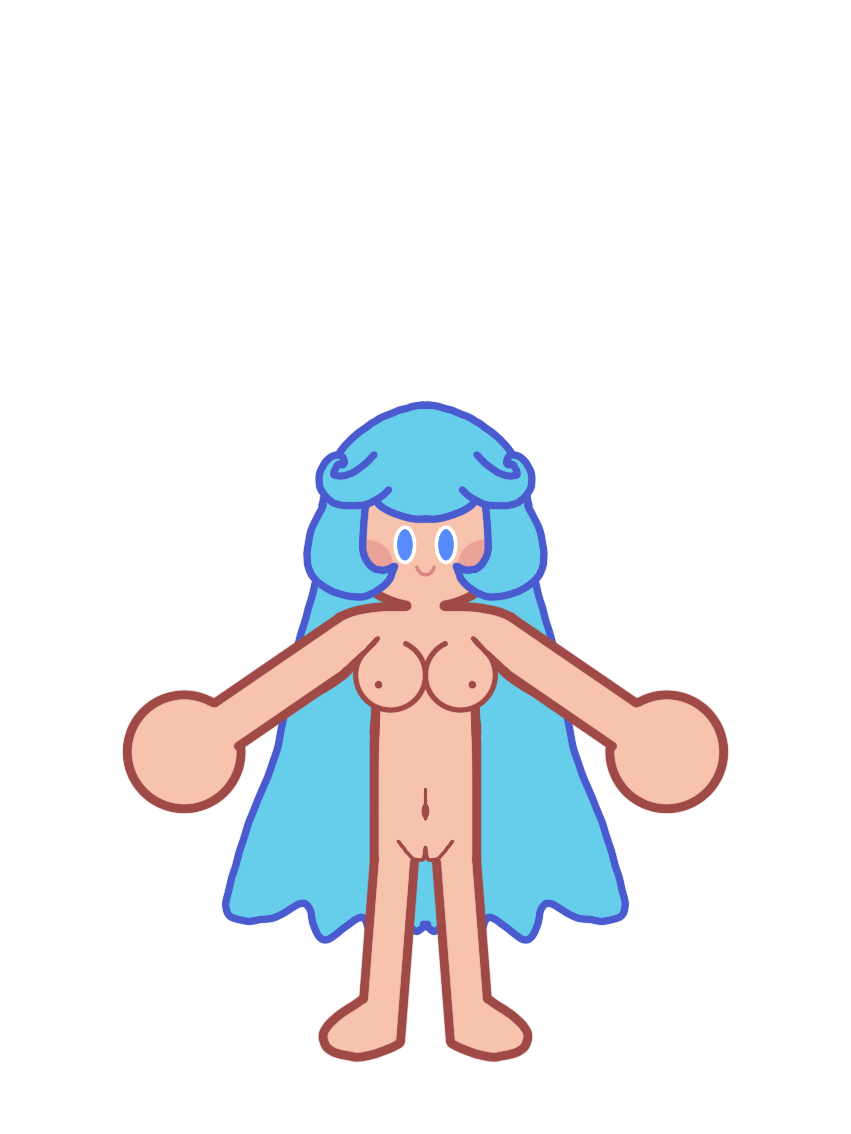
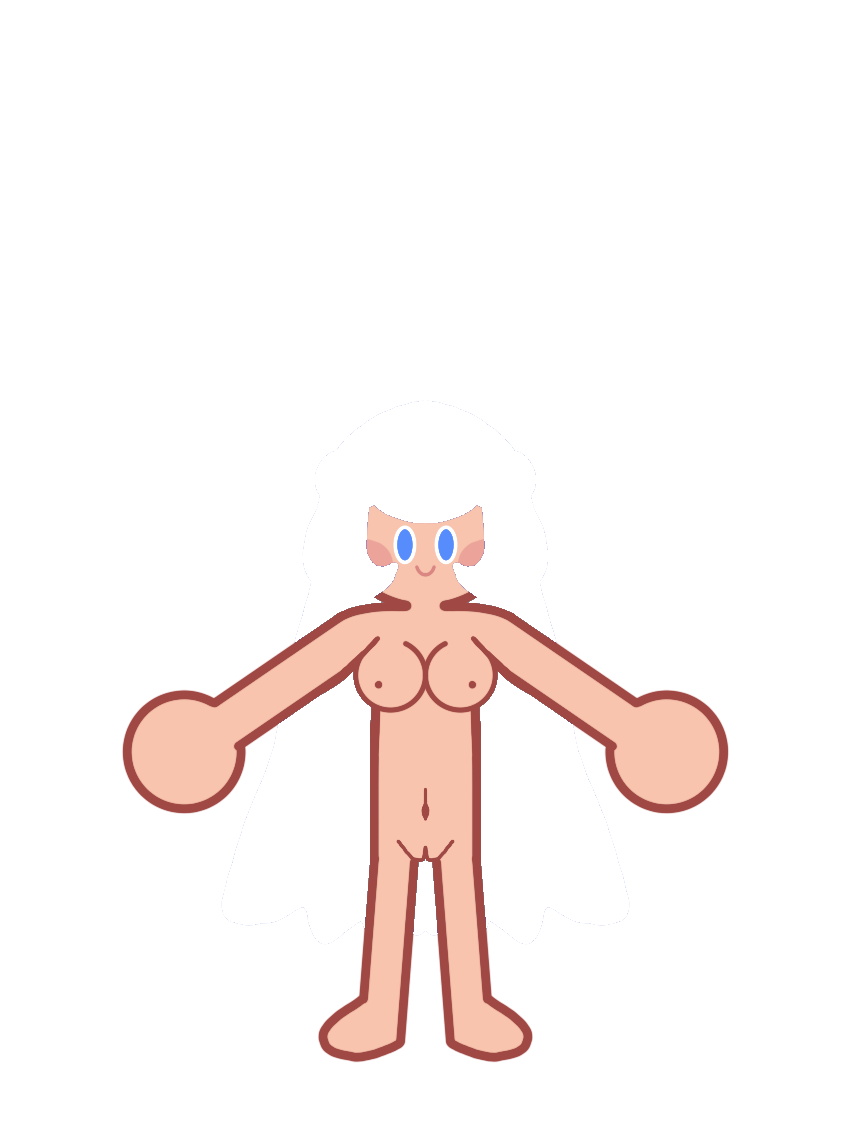
Separate the cape and hair out of base.png
The cape was painted into the body sprite. The rig gives every pixel to the bone
nearest it, so a cape draped across both legs was shared out between them and
tore apart the moment the pet was thrown — the thing that looked bad. Raising
cutOverlap to 12 hid the hairline seams but could not fix a part torn between
two bones.

The cape and the hair are now their own files, each one layer on one bone, and
they move as single pieces. cutOverlap goes back to the 6 the desktop pets use;
the reason for 12 is gone.

Splitting them out was done by colour rather than by hand: this art is flat
shaded, so the blue family is the cape and hair and the skin family is the body,
and connected-component labelling separates the hair from the cape. The part of
each hidden behind the body was rebuilt by filling the occluded pixels with the
part's flat colour — reconstructed column by column rather than row by row, or
every row reaches down to the lowest point of the hem and the middle comes back
as a slab with a straight edge while the scallops curve around it.

Checked by stacking the body and the parts back up and comparing against the
original sprite: 0 of 195,066 pixels differ, nothing missing, nothing extra. The
untouched sprite is committed as images/base_original.png.

tools/ has the tracing guide and a preview page that loads images/, reports
which parts it found and shows the pet rigged and moving, so a redrawn part can
[…]

diff --git a/tools/parts_preview.html b/tools/parts_preview.html
@@ -1,0 +1,200 @@
+<!DOCTYPE html>
+<html lang="en">
+<head>
+<meta charset="utf-8" />
+<!-- This page lives in tools/ but everything it loads — the rig scripts and
+     images/ — sits one level up, and asset_path_fix.js rewrites bare image
+     names to "images/<name>" relative to the PAGE. Without this the whole page
+     would go looking for tools/images/. -->
+<base href="../" />
+<title>Part preview</title>
+<style>
+  * { box-sizing: border-box; }
+  body { margin: 0; font: 14px/1.5 system-ui, sans-serif; color: #1b2430; background: #eef1f5;
+         display: flex; min-height: 100vh; }
+  #stage { flex: 1; display: flex; align-items: center; justify-content: center; position: relative; }
+  #stage canvas { background:
+      repeating-conic-gradient(#e3e7ee 0% 25%, #f7f9fb 0% 50%) 50% / 24px 24px; border-radius: 8px; }
+  #side { width: 330px; padding: 18px; background: #fff; border-left: 1px solid #d8dee7;
+          overflow: auto; }
+  h1 { font-size: 17px; margin: 0 0 2px; }
+  h2 { font-size: 12px; text-transform: uppercase; letter-spacing: .08em; color: #6b7684;
+       margin: 22px 0 8px; }
+  .sub { color: #6b7684; font-size: 12.5px; margin-bottom: 4px; }
+  button { font: inherit; padding: 7px 12px; margin: 0 6px 6px 0; border: 1px solid #c8d0da;
+           background: #fff; border-radius: 7px; cursor: pointer; }
+  button:hover { background: #f1f4f8; }
+  button.on { background: #1b2430; color: #fff; border-color: #1b2430; }
+  label { display: flex; align-items: center; gap: 8px; padding: 5px 0; cursor: pointer; }
+  code { font: 12.5px ui-monospace, monospace; background: #f1f4f8; padding: 1px 5px;
+         border-radius: 4px; }
+  .missing { color: #a8b0bb; }
+  .tag { font-size: 11px; color: #6b7684; }
+  .warn { background: #fff6e5; border: 1px solid #f0d8a8; padding: 9px 11px; border-radius: 7px;
+          font-size: 12.5px; color: #6b4c12; }
+</style>
+</head>
+<body>
+<div id="stage"><canvas id="c" width="760" height="900"></canvas></div>
+
+<div id="side">
+  <h1>Part preview</h1>
+  <div class="sub">Redraw a part, save it into <code>images/</code>, then Reload art.
+    Nothing here changes your files.</div>
+
+  <h2>Motion</h2>
+  <div id="modes"></div>
+
+  <h2>Parts found</h2>
+  <div id="parts"></div>
+
+  <h2>Show</h2>
+  <label><input type="checkbox" id="bones"> Skeleton and joints</label>
+  <label><input type="checkbox" id="slow"> Quarter speed</label>
+
+  <h2>Scale</h2>
+  <input type="range" id="scale" min="20" max="90" value="52" style="width:100%">
+
+  <h2></h2>
+  <button id="reload">↻ Reload art</button>
+  <div id="note"></div>
+</div>
+
+<script src="asset_path_fix.js"></script>
+<script src="pet_back_layer.js"></script>
+<script src="pet_rig_config.js"></script>
+<script src="pet_rig.js"></script>
+<script>
+(() => {
+  const CFG = window.PET_RIG;
+  const cv = document.getElementById('c'), ctx = cv.getContext('2d');
+
+  // The declared parts, and whether their art actually loaded. Kept as the one
+  // source of truth so switching a part off and rebuilding uses the same list.
+  const declared = []
+    .concat((CFG.backParts || []).map(d => ({ def: d, front: false })))
+    .concat((CFG.frontParts || []).map(d => ({ def: d, front: true })));
+  declared.forEach(p => { p.on = true; });
+
+  const PET = Number(new URLSearchParams(location.search).get('pet') || 0);
+  let rig = null, base = null, mode = 'idle', t0 = performance.now(), showBones = false, slow = false;
+  let scale = 0.52;
+
+  function loadImage(src) {
+    return new Promise(r => { const i = new Image(); i.onload = () => r(i); i.onerror = () => r(null); i.src = src; });
+  }
+
+  // Rebuilding is a whole-sprite read, so it happens on a toggle — never per
+  // frame. Switching a part off means handing the rig a list without it.
+  function build() {
+    CFG.backParts  = declared.filter(p => !p.front && p.on).map(p => p.def);
+    CFG.frontParts = declared.filter(p =>  p.front && p.on).map(p => p.def);
+    if (window.PetRig.resetGeometry) window.PetRig.resetGeometry();
+    rig = window.PetRig.create({ petIndex: PET });
+    if (base) rig.setBase(base);
+    rig.setDebug(showBones);
+  }
+
+  async function boot() {
+    // Character 2 has its own body art and its own "_2" parts; fall back to
+    // character 1's body the same way the app does.
+    base = PET === 1 ? await loadImage('base_2.png') : null;
+    if (!base) base = await loadImage('base.png');
+    document.getElementById('note').innerHTML = base ? '' :
+      '<div class="warn">No <code>images/base.png</code> — nothing to rig. ' +
+      'Add the body sprite first.</div>';
+
+    // Start the part loads through the SAME resolver the rig uses, so the "_2"
+    // names are the ones requested for character 2. Asking for the bare name
+    // here would preload the wrong files and then report every part missing.
+    if (window.PetParts) declared.forEach(p => window.PetParts.resolve(p.def.img, null, PET));
+    await new Promise(r => setTimeout(r, 500));
+
+    renderPartList();
+    build();
+    requestAnimationFrame(frame);
+  }
+
+  function renderPartList() {
+    const host = document.getElementById('parts');
+    host.innerHTML = '';
+    declared.forEach((p, i) => {
+      const found = window.PetParts && window.PetParts.has(p.def.img, null, PET);
+      const row = document.createElement('label');
+      row.innerHTML =
+        `<input type="checkbox" ${p.on ? 'checked' : ''} ${found ? '' : 'disabled'}>` +
+        `<span class="${found ? '' : 'missing'}"><code>${p.def.img}</code>` +
+        `<div class="tag">${found ? '' : 'not found · '}${p.front ? 'front' : 'behind'} · ` +
+        `${p.def.bone}${p.def.segments ? ' · chain x' + p.def.segments : ''}</div></span>`;
+      row.querySelector('input').addEventListener('change', e => { p.on = e.target.checked; build(); });
+      host.appendChild(row);
+    });
+  }
+
+  const MODES = [
+    ['idle',  'Rest'],
+    ['sway',  'Walk about'],
+    ['throw', 'Throw'],
+    ['pull',  'Pull a hand'],
+  ];
+  const modeHost = document.getElementById('modes');
+  MODES.forEach(([id, label]) => {
+    const b = document.createElement('button');
+    b.textContent = label; b.dataset.mode = id;
+    b.className = id === mode ? 'on' : '';
+    b.onclick = () => {
+      mode = id; t0 = performance.now();
+      [...modeHost.children].forEach(c => c.className = c.dataset.mode === id ? 'on' : '');
+    };
+    modeHost.appendChild(b);
+  });
+
+  document.getElementById('bones').onchange = e => { showBones = e.target.checked; if (rig) rig.setDebug(showBones); };
+  document.getElementById('slow').onchange  = e => { slow = e.target.checked; };
+  document.getElementById('scale').oninput  = e => { scale = e.target.value / 100; };
+  document.getElementById('reload').onclick = () => location.reload();
+
+  let last = 0;
+  function frame(now) {
+    requestAnimationFrame(frame);
+    let dt = last ? Math.min((now - last) / 1000, 0.05) : 1 / 60;
+    last = now;
+    if (slow) dt *= 0.25;
+    ctx.clearRect(0, 0, cv.width, cv.height);
+    if (!rig || !rig.ready) return;
+
+    const t = (now - t0) / 1000 * (slow ? 0.25 : 1);
+    const h = CFG.src.h * scale;
+    const cx = cv.width / 2 - CFG.src.w * scale / 2;
+    const floor = 40 + h;
+
+    const S = {
+      petX: cx, petY: 40, originX: 0, originY: 0, scale,
+      floorY: floor, poseK: rig.pose.idle, pin: null, airborne: false,
+    };
+
+    if (mode === 'sway') {
+      S.petX = cx + Math.sin(t * 1.6) * 130;
+    } else if (mode === 'throw') {
+      const p = (t % 2.4) / 2.4;
+      S.petX = cx + Math.sin(t * 2.2) * 150;
+      S.petY = 40 - Math.sin(p * Math.PI) * h * 0.55;
+      S.airborne = p < 0.92;
+      S.poseK = S.airborne ? rig.pose.airborne : rig.pose.idle;
+      if (!S.airborne) S.floorY = floor;
+    } else if (mode === 'pull') {
+      S.poseK = rig.pose.heldLimb;
+      S.pin = { joint: 'handL',
+                x: cx + (CFG.src.w * 0.5 + Math.cos(t * 1.1) * CFG.src.w * 0.42) * scale,
+                y: 40 + (CFG.src.h * 0.55 + Math.sin(t * 1.1) * CFG.src.h * 0.3) * scale };
+    }
+
+    rig.step(dt, S);
+    rig.draw(ctx, S);
+  }
+
+  boot();
+})();
+</script>
+</body>
+</html>

diff --git a/pet_rig_config.js b/pet_rig_config.js
@@ -216,15 +216,17 @@ window.PET_RIG = {
   //                 much cheaper. 'maxLag' caps the trail in degrees.
   //                 'flap: true' adds a slow flutter while the pet is airborne.
   //
-  // ⚠ IF A BACK PART IS DRAWN INTO base.png. The character that ships with this
-  // app has its hair and cape painted into the base sprite rather than in their
-  // own files. The rig gives every pixel to the bone nearest it, so those pixels
-  // are shared out between the torso and the legs — which is invisible standing
-  // still, and shows as the cape splitting along the legs when the pet is thrown
-  // hard. Moving that artwork into its own PNG here is the fix, and is the whole
-  // reason this list exists: cut the cape out of base.png, save it as
-  // images/hair_back.png (or add your own entry for it), and it becomes a proper
-  // layer that swings on its own instead of being torn between two bones.
+  // ⚠ NEVER PAINT A BACK PART INTO base.png. The rig gives every pixel to the
+  // bone nearest it, so anything spread across several bones at once gets shared
+  // out between them — invisible standing still, and torn apart the moment the
+  // pet is thrown. This character's cape used to be painted into the base sprite
+  // and split along her legs for exactly that reason. It now lives in
+  // images/cape.png and swings as one piece; images/base_original.png is the
+  // untouched sprite the parts came out of, kept for reference.
+  //
+  // The test for whether something needs its own file: if the pet moved an arm,
+  // would this move WITH the arm, or stay put? A sleeve moves with the arm and
+  // belongs in base.png. A cape does not, and needs its own file.
   backParts: [
 
     { id: 'tail', img: 'tail.png', bone: 'pelvis', anchor: { x: 425, y: 862 },
@@ -232,6 +234,9 @@ window.PET_RIG = {
 
     { id: 'ponytail', img: 'ponytail.png', bone: 'head', anchor: { x: 425, y: 430 },
       z: 50, segments: 3, stiffness: 0.22 },
+
+    { id: 'cape', img: 'cape.png', bone: 'torso', anchor: { x: 425, y: 664 },
+      z: 42, lag: 0.18, maxLag: 14 },
 
     { id: 'hairBack', img: 'hair_back.png', bone: 'head', anchor: { x: 425, y: 420 },
       z: 55, lag: 0.14, maxLag: 10 },
@@ -286,14 +291,13 @@ window.PET_RIG = {
     // pixels. This is what stops a hairline gap opening along a joint when a
     // limb turns: the two sides overlap instead of meeting exactly.
     //
-    // Higher here than on the desktop pets on purpose: this character's cape and
-    // hair are painted into base.png rather than living in their own files, so
-    // they get shared out between the torso and the legs and have further to
-    // come apart. Measured on this artwork with every limb swung 25°, the gap
-    // pixels along the joints go 2951 at 0, 2041 at 2, 902 at 6, 313 at 12, and
-    // none of it shows at rest. Moving the cape into its own PNG (see backParts
-    // above) fixes the cause rather than the symptom.
-    cutOverlap: 12,
+    // Was 12 while the cape was still painted into base.png — it was being torn
+    // between the torso and the legs, and the extra overlap was papering over
+    // the gaps. The cape is its own layer now, so this is back to the same 6 the
+    // desktop pets use. Measured on this artwork with every limb swung 25°, the
+    // gap pixels along the joints go 2951 at 0, 2041 at 2, 902 at 6, 313 at 12,
+    // and none of it shows at rest.
+    cutOverlap: 6,
 
     // How much of a chain part's length the first segment covers, versus the
     // ones below it. 1 is even. Below 1 makes the root segment shorter, so the

diff --git a/pet_rig.js b/pet_rig.js
@@ -1198,7 +1198,15 @@ window.PetRig = (function () {
   //  window.PetRig is itself the first pet, so an app with one pet never has to
   //  know create() exists — every call it already makes still lands.
   const first = create({ petIndex: 0 });
-  const api = { create, geometry, config: CFG };
+  const api = {
+    create, geometry, config: CFG,
+    // Throw away the derived skeleton so the next create() reads PET_RIG again.
+    // The geometry is cached because it is identical for every pet and costs a
+    // pass over the config to build; that caching is also why editing
+    // PET_RIG.backParts at runtime otherwise appears to do nothing. The parts
+    // preview in tools/ uses this to switch a part off and re-cut.
+    resetGeometry() { for (const k in geomCache) delete geomCache[k]; },
+  };
   for (const k of Object.keys(first)) {
     const d = Object.getOwnPropertyDescriptor(first, k);
     if (d && (d.get || d.set)) Object.defineProperty(api, k, d);

diff --git a/tools/README.md b/tools/README.md
@@ -1,0 +1,69 @@
+# Drawing the pet's back parts
+
+The pet's body is cut into limbs automatically along the skeleton in
+`pet_rig_config.js`, so **you never separate an arm, a leg, the head or the
+torso** — those live in `images/base.png` and the rig handles them.
+
+What does need its own file is anything that sits **behind** the body and spans
+more than one bone: a cape, long hair, wings, a tail. The rig gives every pixel
+to the bone nearest it, so a cape draped across both legs gets shared out
+between them and tears apart the moment the pet is thrown.
+
+> **The test:** if the pet moved its arm, would this move *with* the arm?
+> A sleeve would — it belongs in `base.png`. A cape would not — it needs its own file.
+
+## The files
+
+Every part is optional. A missing PNG simply draws nothing, so you can add them
+one at a time. Draw each on its own transparent canvas the **same size as
+`base.png`** (851 × 1134), positioned exactly where it sits on the body — the
+same way a piece of clothing lines up.
+
+| file | hangs off | how it moves |
+|---|---|---|
+| `images/wings.png` | torso | one piece, trails the body, flaps in the air |
+| `images/cape.png` | torso | one piece, trails the body |
+| `images/tail.png` | pelvis | chain — whips and settles |
+| `images/ponytail.png` | head | chain — whips and settles |
+| `images/hair_back.png` | head | one piece, trails the head |
+| `images/hair_front.png` | head | drawn **over** the body and its clothes |
+
+`parts_guide_*.png` in this folder is a tracing template: the character with the
+skeleton, the joints and each part's pivot drawn on top. Open it as a background
+layer in your drawing app and draw against it.
+
+Character 2 uses the same names with `_2` on the end — `tail_2.png`,
+`wings_2.png`. If a `_2` file is missing, character 1's art is used and tinted.
+
+Which parts exist, and what each is bound to, is set in `pet_rig_config.js`
+under `backParts` / `frontParts`. Add an entry there to introduce a new one.
+
+## Checking your work
+
+Open `tools/parts_preview.html` in a browser. It loads `images/`, lists which
+part files it found, and shows the pet rigged and moving — at rest, walking
+about, thrown, or dragged by a hand. Toggle any part off to see it without,
+turn on the skeleton to check a pivot, then redraw, save, and hit **Reload art**.
+
+It changes nothing on disk. Add `?pet=1` to the URL to preview character 2.
+
+## What is hidden behind the body
+
+A part drawn into `base.png` is missing whatever the body was covering — cut a
+cape out and you get a body-shaped bite in the middle of it. The parts that ship
+here were rebuilt automatically by filling that gap with the part's flat colour,
+which works because this art is flat-shaded. If you redraw a part by hand,
+**draw the whole thing**, including the section the body hides. It costs nothing
+when the pet stands still and it is what stops a hole appearing the moment the
+part swings.
+
+`images/base_original.png` is the untouched sprite the parts were taken out of,
+kept for reference. Nothing loads it.
+
+## If you redraw the body in a different pose
+
+The joints in `pet_rig_config.js` have to sit where the joints are in your
+artwork — that is the whole contract, and nothing else needs re-measuring. The
+config ships two poses, `natural` and `tpose`; pick one with `restPose`, or copy
+a block and move the numbers onto your art. Press **Ctrl+Shift+B** in the app, or
+tick *Skeleton and joints* in the preview, to see exactly where they land.
